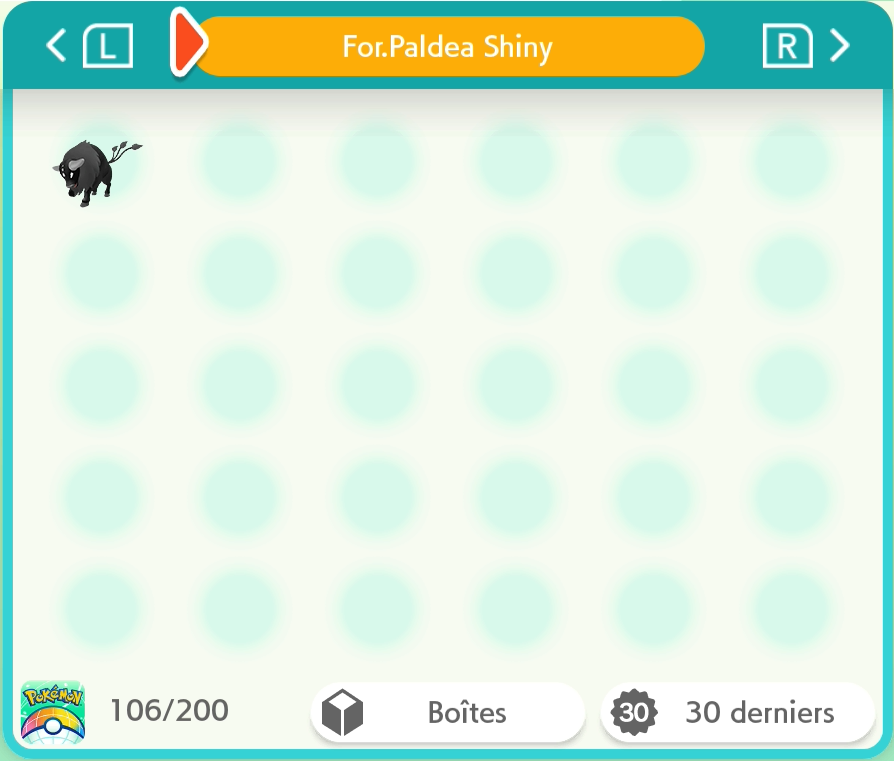
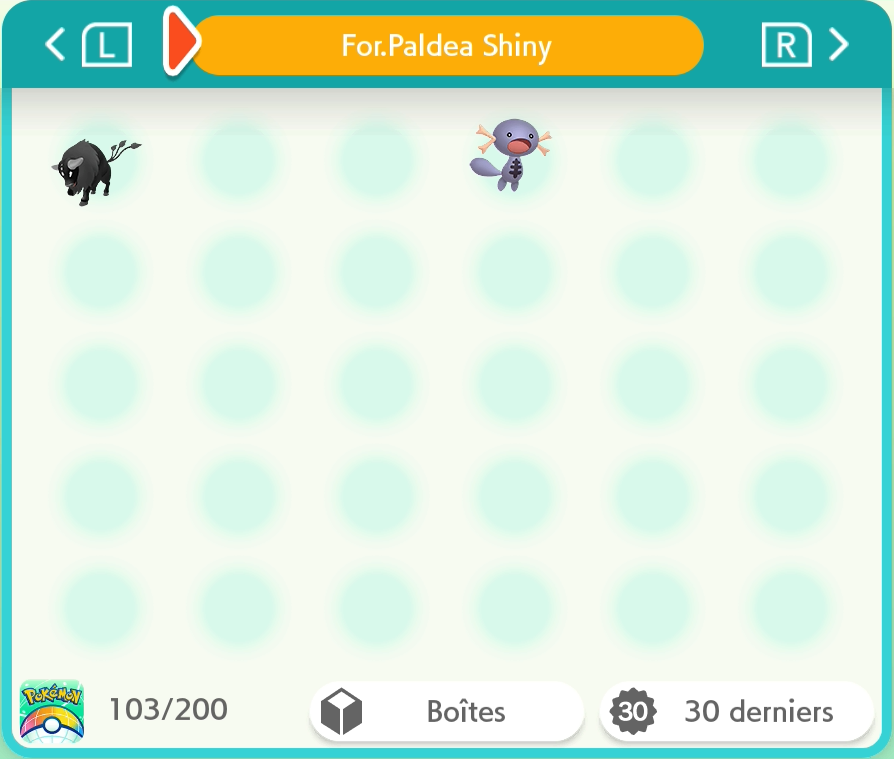
9G : Terraiste | Forme de Paldea : Axoloto

diff --git a/README.md b/README.md
@@ -2,8 +2,8 @@
 
 Pokémon-Elément-Sh -> <a href="https://www.pokemon-element-sh.fr/profil/karyno21" target="_blank">Karyno21</a>
 
-↓ Dernière Update le 27/05/2026 à 10h13 ↓
-### Dex National [242/999] +6
+↓ Dernière Update le 27/05/2026 à 21h06 ↓
+### Dex National [243/999] +7
 
 | Gen | Prog | Notes |
 |:--:|:--:|---|
@@ -15,16 +15,16 @@ Pokémon-Elément-Sh -> <a href="https://www.pokemon-element-sh.fr/profil/karyno
 |6G|21/70||
 |7G|16/84|J'ai deux Meltan Shiny mais impossible de le faire évolué en Melmétal... (pas compté)|
 |8G|24/90|+2 Distrib Zacian & Éthernatos|
-|9G|42/108||
+|9G|43/108|+1 Terraiste|
 
-### Formes Régionales [33/58] +14
+### Formes Régionales [34/58] +15
 
 | Forme | Prog | Notes |
 |:--:|:--:|---|
 |Alola|12/18|+11 Familles de Rattata / Goupix / Racaillou / Sabelette, Raichu & Noadkoko|
 |Galar|6/19|+6 Famille de Ramoloss & Distrib des oiseaux légendaire de Galar|
 |Hisui|17/17|Complété|
-|Paldea|1/4||
+|Paldea|2/4|+1 Axoloto|
 
 ---
 
